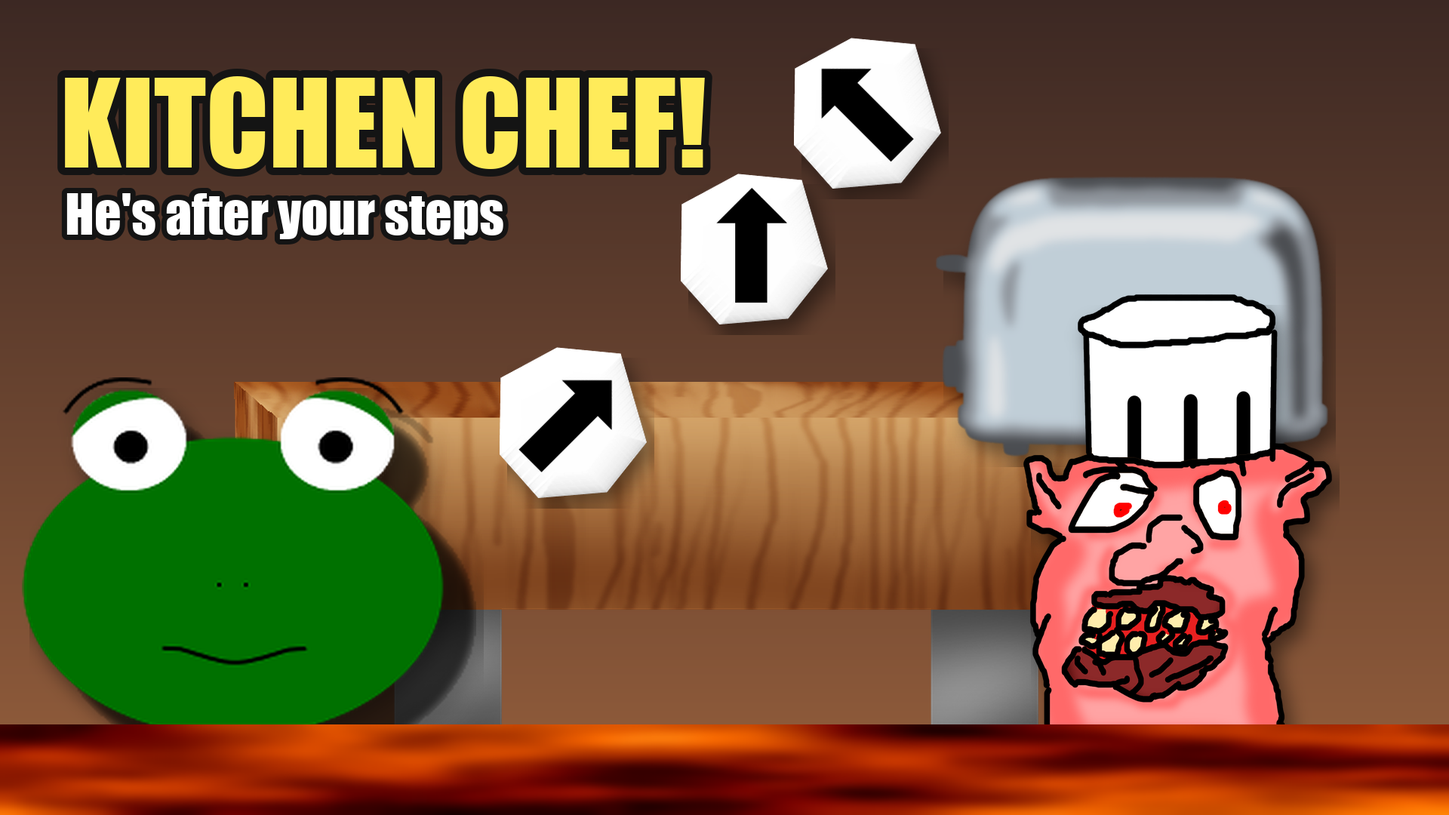
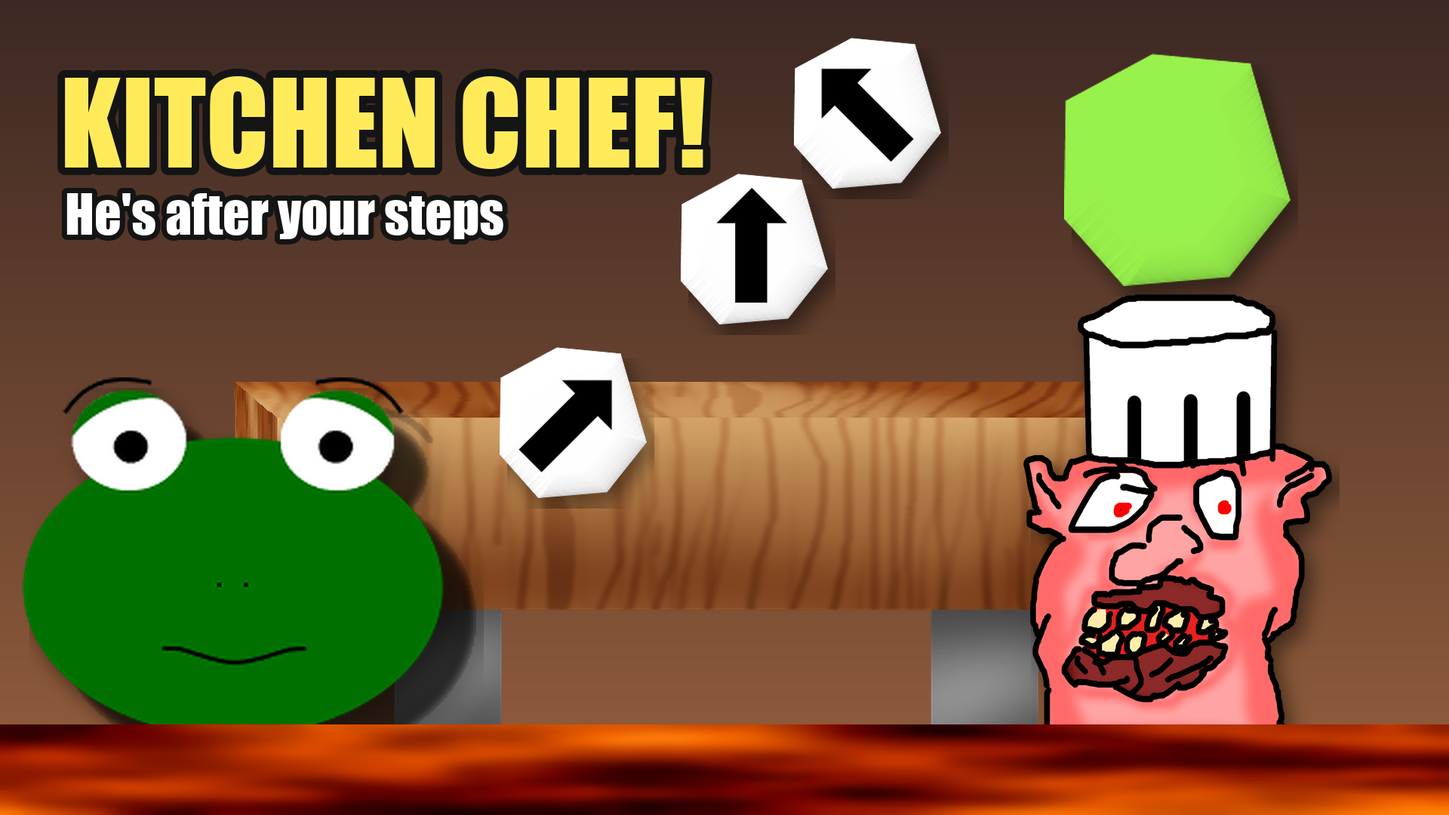
feat(levels): Kitchen's springboard is a SpringRock, not a toaster [b-20261022-122133-om8p]
cause: Kitchen mapped its Launch role to the Toaster kind; it now uses the
default lime SpringRock at the same weights. Docs 17/18 and marketing
thumb 2 updated to match.
verified: no (Hot Frog place not open in Studio); Play check filed.

Claude-Session: https://claude.ai/code/session_01Pi9fBDqQNHc5N76CbTuQqC

Changed region(s): [[0.625, 0.0611, 0.9375, 0.5806]]

diff --git a/tools/make_marketing.py b/tools/make_marketing.py
@@ -100,6 +100,12 @@ def steps(canvas, spots, size=200):
         paste(canvas, sprite(f"Rocks/{arrows[i % 5]}.png", height=size), x, y)
 
 
+def lime(img):
+    """SpringRock's lime tint (StepKinds TINT_LIME) on a WhiteRock sprite."""
+    r, g, b, a = img.split()
+    return Image.merge("RGBA", (r.point(lambda v: v * 0.6), g.point(lambda v: v * 0.95), b.point(lambda v: v * 0.3), a))
+
+
 def make_icon():
     img = Image.open(os.path.join(ROOT, "Sprites/Other/Icon.png")).convert("RGB")
     img.resize((512, 512), Image.LANCZOS).save(os.path.join(OUT, "icon-512.png"))
@@ -120,7 +126,7 @@ def thumb2():
     c = vgrad((60, 40, 35), (150, 95, 60))
     sh = sprite("Other/Shelf.png", width=1300)
     paste(c, sh, 960, 760, shadow=False)
-    paste(c, sprite("Rocks/Toaster.png", width=520), 1500, 420)
+    paste(c, lime(sprite("Rocks/WhiteRock.png", width=300)), 1560, 225)
     paste(c, sprite("Other/Chef.png", height=620), 1560, 700)
     steps(c, [(1000, 330), (1150, 150), (760, 560)], 200)
     frog(c, 330, 760, 520)

diff --git a/docs/roblox-port/17-status-and-known-gaps.md b/docs/roblox-port/17-status-and-known-gaps.md
@@ -152,6 +152,7 @@ still guesses. The first bot run found one bug, fixed the same day: see the
 | Country music | `musicIndex 4` looked out of range | `music5` = `Two Wrongs.wav`, the fifth clip in `Multiplayer.unity`'s AudioManager override | |
 | Country outdoor area and Space (b-20261020-200915-5ju4, owner's ruling b-20261020-201705-zwi7) | Country is the last level, endless, with no background material; there is no Space level | **Country is the outdoor area:** it gets a painted sky backdrop (`background = "CountryBack"`, `Sprites/Other/CountryBack.png`) and three new kinds in its four rock pools (`Levels.withOutdoor`): `TreeTrunk` (a static climbable trunk, behaviour `None`), `OakTree` (the Tutorial's oak, `TutorialTreeMid.png` as a 12-stud static climbable trunk, behaviour `None`; **since removed from the pools, b-20261022-122127-bu3j, see the next row**; owner b-20261020-205449-vnng: "use the trees from tutorial too"; no new art) and two cars, `CarRight` / `CarLeft` (behaviour `Drive`: the car drives its row at the kind's own fixed speed, +2.5 / -3.5 studs/s, never rolled; while the lane travels vertically a car that drives wholly past the lane's side edge wraps round to the other edge, so its row keeps traffic; while it travels sideways it leaves past the bound like any step). A car's roof/body is grabbable, but a frog that holds it for `Config.CAR_KNOCK_TIME` (1.2 s) in a row is knocked off (a forced release, never a death), shaking for the last `CAR_WARN_TIME` (0.6 s); cars are `hazard` kinds (fairness guard) and absent from Country's first height stage, then weighted 0.15 / 0.2 / 0.25 each. **No shelves (b-20261020-213556-k25y, "remove shelves from the country level and add in more directional steps"; Unity Country used shelves):** `Shelf`/`ShelfWithSpoon`/`ShelfWithFork` are out of all Country pools; the arrow pools grew (DownLeft `UpRock`/`UpLeftRock`/`UpRightRock`, Right `UpRock`/`UpRightRock`/`RightRock`, Left `UpRock`/`UpLeftRock`/`LeftRock`, Down unchanged four) and every height stage weights each arrow 0.25 (default 0.1) and `TreeTrunk` 1.2 (was `TreeTrunk`/`OakTree` 0.6 each) so trees are the plain footholds; arrows are roughly a fifth to a third of a pick. **Country now ends:** at `LEVEL_THRESHOLDS.Space` (250) run steps `Lane.onStepClimbed` levels the lane up to **Space** (`Levels.SPACE`, 6th entry), the last level, endless. Space: star-field backdrop (`SpaceBack`), music3 (`Opening`, otherwise unused), night-tinted sun, travel starts straight up, Country's spawners with one `Asteroid` kind (weight 1.5 = the three shelves') in place of the shelves/trees/cars and rockets only in the themed spawner, no scenery, two calm height stages and SpringStreak. **Low gravity:** `Lane.gravityScale` eases the frog's fall speed linearly from 1 to `Config.SPACE_GRAVITY_SCALE` (0.2) over the first `SPACE_GRAVITY_TRANSITION_STEPS` (8) steps climbed after arriving, then stays there; a death resets the run to Pot at full gravity. The spec's "256-unit transition" is read as 256 Unity units ≈ 80 studs ≈ 8 ordinary pulls, counted in steps so it is the same in Normal and Classic. Classic drifts at Country's speed in Space. All five images are Ludo-generated (`ludo` CLI, "Illustration"/style-matched to the existing sprites), trimmed and padded by hand onto power-of-two canvases (backdrops made seamless by a half-offset crossfade) | owner's feature request; Unity has no outdoor content or Space. Speeds, knock time, weights and the gravity scale are guesses, not tuned by feel |
 | Country trees: only the simple trunk (b-20261022-122127-bu3j, "remove the more detailed tree sprites and keep the less detailed ones") | Port-added `OakTree` (the Tutorial oak tile as a Country foothold, row above) | `OakTree` is out of `Levels.withOutdoor` and every Country height stage; `TreeTrunk` (the plain trunk) keeps all tree spawns, its stage weight doubled 0.6 -> 1.2 and default probability 0.4 -> 0.8 so tree density is unchanged. The kind definition and `TutorialTreeMid` art stay (the Tutorial's own trees are untouched) | owner's request; port addition anyway, Unity has no Country trees |
+| Kitchen has no Toaster (b-20261022-om8p, "remove the toaster sprites") | port-added `Toaster` was Kitchen's Launch kind (row "Themed Launch / Vanish kinds" above) | `Levels.KITCHEN_ROLES` no longer overrides Launch, so Kitchen's springboard is the default lime `SpringRock` again at the Toaster's weights (0.2 in stages 3 and 4, and in SpringStreak). The `Toaster` kind definition and art stay, unspawned | owner's request; gameplay (a +8 stud pull step) unchanged, only its art differs |
 | Kitchen and Space music | `musicIndex 1`, FrogSounds.wav (the same quiet, beatless track as the menu and Tutorial) for Kitchen; Space does not exist | Kitchen: `musicIndex 5`, `music6` = `Sounds/Music/KitchenBounce.mp3`, a 49 s looping kitchen chiptune generated with the `ludo` CLI (originally 64 s; first 14.87 s cut at the owner's request, b-20261021-112652-q8b6; id 117737777986047; scanned via `REPO_MUSIC` in `tools/build_manifest.py`). Space: `musicIndex 3`, `music4` = `Adenine.mp3`, Kitchen's previous track (earlier pick b-20261010-192146-ml2d, "kitchen needs equally groovy music as pot") | owner: "use the current kitchen music for the space level and make new music for the kitchen" (b-20261021-094437-1mnh); not yet listened to in game. Space used `music3` (Opening) before; it is now unused by any level |
 | Badges | only checked on a new all-time best | awarded the first time any run crosses a threshold | friendlier to players who already have a high best |
 | Pause | freezes the game | **removed**: there is no pause button. The frog keeps sinking whatever you do, but while it holds a step it cannot die (it stops on the lava surface) | a multiplayer server can't pause, and the earlier status-only panel read as a broken pause; owner's ruling b-20261012-141202-0586 |
@@ -164,7 +165,7 @@ still guesses. The first bot run found one bug, fixed the same day: see the
 | Dynamic steps (port addition) | every shipped step is static until grabbed | five new kinds on four new behaviours: `Lillipad` (`Patrol`, slides side to side, frozen while held), `BobRock` (`RiseAndFall`), `SpringRock` (`Launch`, +`LAUNCH_PULL` 8 studs of pull), `BlinkRock` (`Vanish`: warns via `Unsteady` after 3 s in view, then drops away) and `CrumbleRock` (`Crumble`, 1.5 s after the grab). Kitchen and Country gain `heightStages` (`stagesFromEntry`: bounds count steps since the lane entered the level, `lane.levelStartSteps`, because the rim grab makes Kitchen start a few steps past 50; Pot's stay absolute) that introduce them gradually; Pot's last stage adds `Lillipad`. Spawners may lay a pattern (`Levels.patterns`: ZigZag, Staircase, Cluster, BugChain, PadLadder) in place of a single spawn (members staged upstream of the first are reach- and bounds-tested as if the steps before them had been climbed, up to `PATTERN_MAX_UPSTREAM`), and levels have rare events, rolled once per grab, (Kitchen/Country SpringStreak, Country CastleKeep using the pool-less `Castle` kind). Fairness guard in `Lane`: hazard kinds (`StepKinds.hazard`) are at most `HAZARD_MAX_RECENT` (2) of a lane's last `HAZARD_WINDOW` (6) spawns, pattern and scaffold members are never all hazards, a mover's whole sweep is reserved in `clearSpot` and kept inside the portrait view and reach. None of it appears in the Tutorial | owner's request to expand the basic playspace. Bot-tested in Studio (see Status); weights, chances and amplitudes are guesses |
 | Dead kinds revived: Ember, StillRock, SlowFallRock (b-20261021-091536-8ayk, doc 19 ruling 4, part 3 of 6) | `FlingingRock`, `StillRock`, `SlowFallRock` and `FlyRock` are Unity "General/Spawners" prefabs in no live pool; `FlingingRock` is a `WrappedRock` rock, `FlyRock` is untinted | `FlingingRock` is the **Pot Ember**: `CrumblyRock` art tinted orange, `SplashFlinging` with the `Flame` flingee, not a `hazard` (so Halloween may swap it for a Pumpkin), in all three Pot spawners, weight 0 / 0.3 / 0.4 over Pot's three height stages. `StillRock` (untinted `WrappedRock`) is a Country plain foothold, 0.4 in every stage, and `FlyRock` now wears a gold tint so the two read differently (affects BugChain in Kitchen too). `SlowFallRock` (`Fall`, `hazard`, pink-tinted `WhiteRock`) is a Country hazard in the two later stages only, 0.2 then 0.3 (0 in stages 1-2, like `BlinkRock`'s ramp). Both Country kinds are added through `Levels.withOutdoor`. Not yet spawned with `StudioSpawnKind` (Studio Play held); still dead: `CrumblyRock`, `FallingRock` (part 4), `Beetle` (needs art) | owner's ruling 4 on b-20261021-074242-z0a9 (all six kinds go in). Weights are doc 19's; tints are guesses |
 | Dead kinds revived: CrumblyRock, FallingRock (b-20261021-091536-2ymu, doc 19 ruling 4, part 4 of 6) | `CrumblyRock` (`None`, untinted) and `FallingRock` (`Falling`, salmon, `hazard`) are Unity prefabs in no live pool; `CrumblyRock` shared its art with the crumbling `CrumbleRock` | `CrumblyRock` is a Kitchen step with its own biscuit tint (since b-20261021-095009-vou1 a shake-then-burst hazard like `CrumbleRock`, see "Crumble step"; it was first revived as a plain `None` step) so it differs from the untinted `CrumbleRock`; weight 0.3 / 0.3 / 0.35 / 0.4 over Kitchen's four height stages. `FallingRock` is a Kitchen hazard, salmon tint kept, weight 0 / 0 / 0.2 / 0.3, and sinks at 24 studs/s via the new `speed` param on `StepBehaviors.Falling` (default `Config.FALLING_DRIFT_SPEED` 15, so only this kind changes). Both are in all five Kitchen spawner pools; neither is in Space, and Country's pools are unchanged. Not yet spawned with `StudioSpawnKind` (Studio Play held); `Beetle` is still dead (needs art) | owner's ruling 4 on b-20261021-074242-z0a9. Weights, the 24 studs/s speed and the biscuit tint are guesses |
-| Themed Launch / Vanish kinds and the Beetle (b-20261021-091537-rv4a, doc 19 rulings 1B and 4, part 5 of 6) | Unity's `Beetle.prefab` is a black-tinted `WhiteRock` rock in no live pool; the port's Launch and Vanish kinds (`SpringRock`, `BlinkRock`) were tinted rocks in every level | `Levels.KITCHEN_ROLES` maps Launch to `Toaster` and Vanish to `IceCube`; `Levels.COUNTRY_ROLES` maps Launch to `CashPile` (a pile of banknotes and coins; it replaced the Trampoline by owner request b-20261021-094516-9uqb, inheriting its role, weights and params) (Vanish stays `BlinkRock` until the Dandelion has art; Space keeps all five default roles; Lillipad stays Patrol everywhere). Each copies the behaviour, params and stage weights of the rock it replaces (Toaster `Launch` pull 8, Kitchen 0 / 0 / .2 / .2; IceCube `Vanish` 3 s + 1.5 s, `hazard`, Kitchen 0 / 0 / 0 / .3; CashPile (ex-Trampoline) `Launch` pull 8, Country .15 / .25 / .25 / .3), and SpringStreak lays the level's Launch kind. `Beetle` now uses its own `Beetle` art (a red ladybug, untinted) and is flagged `hazard`; it joins Country through `withOutdoor` at 0 / .1 / .15 / .15. Sizes (port additions, no Unity collider; hit box = the art's visible extent): Toaster on the 8.046 shelf canvas, hit 7.1 x 5.3 (body), tap 8 x 5.8; IceCube on the 3.657 small-rock canvas with BlinkRock's hit box and 6 x 6 tap; CashPile 8 x 4 canvas, hit 7.8 x 2, tap 8 x 3.6 (was the Trampoline's 7.8 x 1.8); Beetle on the 7.314 rock canvas, hit 6.9 x 3.7 (not Unity's r=11 circle), tap 7.3 x 5.5. The new kinds are untinted (the art carries the look), so they also get no Halloween tint. Not yet spawned with `StudioSpawnKind` (Studio Play held) | owner's ruling 1B / 4 on b-20261021-074242-z0a9; art from b-20261021-091519-wu4e. Weights are inherited or doc 19's; hit boxes, tap pads, the CashPile canvas and dropping the lime / violet / black tints are guesses |
+| Themed Launch / Vanish kinds and the Beetle (b-20261021-091537-rv4a, doc 19 rulings 1B and 4, part 5 of 6) | Unity's `Beetle.prefab` is a black-tinted `WhiteRock` rock in no live pool; the port's Launch and Vanish kinds (`SpringRock`, `BlinkRock`) were tinted rocks in every level | `Levels.KITCHEN_ROLES` maps Vanish to `IceCube` (Launch was `Toaster`; since removed, see "Kitchen has no Toaster"); `Levels.COUNTRY_ROLES` maps Launch to `CashPile` (a pile of banknotes and coins; it replaced the Trampoline by owner request b-20261021-094516-9uqb, inheriting its role, weights and params) (Vanish stays `BlinkRock` until the Dandelion has art; Space keeps all five default roles; Lillipad stays Patrol everywhere). Each copies the behaviour, params and stage weights of the rock it replaces (Toaster `Launch` pull 8, Kitchen 0 / 0 / .2 / .2; IceCube `Vanish` 3 s + 1.5 s, `hazard`, Kitchen 0 / 0 / 0 / .3; CashPile (ex-Trampoline) `Launch` pull 8, Country .15 / .25 / .25 / .3), and SpringStreak lays the level's Launch kind. `Beetle` now uses its own `Beetle` art (a red ladybug, untinted) and is flagged `hazard`; it joins Country through `withOutdoor` at 0 / .1 / .15 / .15. Sizes (port additions, no Unity collider; hit box = the art's visible extent): Toaster on the 8.046 shelf canvas, hit 7.1 x 5.3 (body), tap 8 x 5.8; IceCube on the 3.657 small-rock canvas with BlinkRock's hit box and 6 x 6 tap; CashPile 8 x 4 canvas, hit 7.8 x 2, tap 8 x 3.6 (was the Trampoline's 7.8 x 1.8); Beetle on the 7.314 rock canvas, hit 6.9 x 3.7 (not Unity's r=11 circle), tap 7.3 x 5.5. The new kinds are untinted (the art carries the look), so they also get no Halloween tint. Not yet spawned with `StudioSpawnKind` (Studio Play held) | owner's ruling 1B / 4 on b-20261021-074242-z0a9; art from b-20261021-091519-wu4e. Weights are inherited or doc 19's; hit boxes, tap pads, the CashPile canvas and dropping the lime / violet / black tints are guesses |
 | Space UFO and Satellite (b-20261021-091537-xh0w, doc 19 rulings 1B, 2A and 5B, part 6 of 6) | Space's Patrol and RiseAndFall movers were the pond Lillipad and the sky-tinted `BobRock` rock | `Levels.SPACE_ROLES` maps Bob to `UFO` (`RiseAndFall`, amplitude 1.5, period 2.5, as BobRock) at BobRock's Space weights (.3 / .45); `Satellite` (`Patrol`, amplitude 2.5, period 3.5, as Lillipad) joins Space through `withSpace` and splits the Patrol weight with Lillipad half and half (Lillipad .175 / .25, Satellite .175 / .25; was Lillipad .35 / .5). Lillipad stays Patrol everywhere (z0a9), so SpringStreak and PadLadder are unchanged. Space otherwise keeps its rock steps: no Meteor, BoostRocket or DriftAsteroid, and Rocket stays out of the Down pool. Sizes (port additions; both PNGs are 512x256 on an 8 x 4 canvas, 64 px/stud, alpha boxes measured with PIL): UFO visible x 6-507, y 47-209 px, hit 7.8 x 2.5, tap 8 x 3.6; Satellite visible x 6-506, y 79-178 px, hit 7.8 x 1.5, tap 8 x 3.4. Both are untinted, non-hazard moving kinds, so the Halloween swap skips them (`Config.HALLOWEEN_KEEP_BEHAVIORS` holds Patrol and RiseAndFall). No new Tips (no new behaviour). Not yet spawned with `StudioSpawnKind` (Studio Play held by the owner) | owner's rulings 1B / 2A / 5B on b-20261021-074242-z0a9; art from b-20261021-091519-wu4e. Weights are inherited; hit boxes and tap pads are guesses |
 | Bug flight (`Entities/Bug.cs`) | a DOTween move to a random point (3 s OutBack), then the bug sits still for its lifespan and leaves | one server Heartbeat integrator, replicated at `BUG_UPDATE_HZ` (30) through `BulkMoveTo`. After the Back-out entry a bug flies a weighted `Pattern` until it leaves: Hover, FigureEight, Dart, or Skittish (drifts away from the lane frog's limbs), always clamped to the lane's bug box. Edge spawns are occasionally a swarm of 3–5, and a rare `Golden` bug (gold tint, fast Dart, shorter life) pays `GOLDEN_BUG_FLYS` (25) through `AwardFlys` and counts as one catch. Per-lane and pool caps. `WorldBugs.client.luau` flutters the wings (`Wing1/2/3`) and pulses golden bugs, client-side | bugs that freeze after 0.8 s made the field feel static; owner's request. Gift-burst bugs (`Reward = false`) are never golden. Bot-tested in Studio (see Status) |
 | World dynamics (cosmetic) | scenery is static or drifts; no wind, depth layers, lava surge or tap reactions beyond the Bubble | client-only: per-kind sway/bob/roll/spin/flicker (`SceneryKinds.motion`); extra spawners per level (`SceneryKinds.extraSpawners`: far/near clouds in Menu and Country, leaves in Country, back-flames in Pot, from previously unused art); Country wind gusts (`world/Wind`); a Pot lava swell with ember bursts scaled by `PotHeat` (a separate strip, at most `SURGE_MAX_RISE` 1.1 studs above `LAVA_Y`; the death line and the real Lava part are untouched); tap reactions `pop` / `wobble` / `flare`. Scenery and the backdrop now share one eased pull driver (`world/PullScroller`) instead of a tween per part per pull, which also fixes recycled scenery teleporting when a stale tween kept writing its position, and the backdrop stepping while scenery eased. The lane folder also publishes `PullTotal` (cumulative), `PullLinear` (true for Classic drift chunks, which the scroller plays linearly instead of easing them into 2 Hz surges) and `PullEpoch` (bumped by `Lane.resetRun`), so two pulls published in one server frame no longer collapse into one on the client; `PullDelta` / `PullTime` / `PullCount` are unchanged | owner's request; every knob is in `WorldConfig`. Bot-tested in Studio (see Status) |

diff --git a/docs/roblox-port/18-step-kinds-by-level.md b/docs/roblox-port/18-step-kinds-by-level.md
@@ -8,7 +8,7 @@ The tables below are the audit as read at `6645c92`. Changes made since by the d
 
 - **Role map** (`b-20261021-091520-sh6c`): `withDynamic` is now `withRoles(level roles, pool)`; each level's `roles` names its Patrol / Bob / Launch / Vanish / Crumble kind, and PadLadder / SpringStreak members name a role, not a kind. The Halloween swap skips Patrol, RiseAndFall and Launch kinds.
 - **Revived kinds**: Pot gains `FlingingRock` (the Ember, 0 / .3 / .4); Country gains `StillRock` (.4 every stage) and `SlowFallRock` (0 / 0 / .2 / .3) via `withOutdoor`; Kitchen gains `CrumblyRock` (.3 / .3 / .35 / .4) and `FallingRock` (0 / 0 / .2 / .3) in all five pools. FlyRock is gold-tinted.
-- **Themed kinds** (`b-20261021-091537-rv4a`): Kitchen's Launch role is `Toaster` and its Vanish role `IceCube`, at SpringRock's and BlinkRock's old Kitchen weights (Toaster 0 / 0 / .2 / .2, IceCube 0 / 0 / 0 / .3); the Kitchen SpringStreak lays Toasters. Country's Launch role is `CashPile` (replaced the Trampoline, owner request `b-20261021-094516-9uqb`) at SpringRock's old weights (.15 / .25 / .25 / .3; SpringStreak lays CashPiles), and `Beetle` (new ladybug art, `hazard`, one forced release) joins `withOutdoor` at 0 / .1 / .15 / .15. Lillipad and BobRock stay in every level; BlinkRock stays Country's Vanish kind and Space keeps all five default roles. Read "Spring" and "Blink" in the Kitchen table, and "Spring" in the Country table, as these kinds.
+- **Themed kinds** (`b-20261021-091537-rv4a`): Kitchen's Vanish role is `IceCube` at BlinkRock's old Kitchen weights (0 / 0 / 0 / .3); its Launch role is the default `SpringRock` again (0 / 0 / .2 / .2; the Toaster was removed, `b-20261022-om8p`), and the Kitchen SpringStreak lays SpringRocks. Country's Launch role is `CashPile` (replaced the Trampoline, owner request `b-20261021-094516-9uqb`) at SpringRock's old weights (.15 / .25 / .25 / .3; SpringStreak lays CashPiles), and `Beetle` (new ladybug art, `hazard`, one forced release) joins `withOutdoor` at 0 / .1 / .15 / .15. Lillipad and BobRock stay in every level; BlinkRock stays Country's Vanish kind and Space keeps all five default roles. Read "Spring" and "Blink" in the Kitchen table, and "Spring" in the Country table, as these kinds.
 - **Space movers** (`b-20261021-091537-xh0w`): Space's Bob role is `UFO` (BobRock's `RiseAndFall` params and weights, .3 / .45) and `Satellite` (`Patrol`) joins beside Lillipad, splitting the Patrol weight (Lillipad .175 / .25, Satellite .175 / .25). Space keeps its rock steps (no Meteor, BoostRocket or DriftAsteroid; Rocket stays out of the Down pool). Read "Bob" in the Space rows as UFO; Lily's Space share is now halved.
 - Still dead: none of the six; still in no pool by design: PotRim, Castle, Pumpkin, FlyRock.
 
@@ -17,10 +17,10 @@ The tables below are the audit as read at `6645c92`. Changes made since by the d
 - Each level has step spawners with a `pool` (list of StepKinds names). `Lane.pickKind` does one weighted draw over the pool of the spawner active for the lane's current scroll direction (by sign): Down, DownLeft, DownRight, Left, Right, plus a themed Rocket spawner that scrolls left.
 - Weight = the current height stage's `weights[kind]` if listed, else `StepKinds[kind].spawnProbability`. Shares below are weight / pool total, before gating.
 - Gates: an arrow whose `canSpawn` says the bias already points that way is skipped (`UpRock` never on a straight-down scroll; `LeftRock`/`RightRock` only when not already horizontal). Kinds flagged `hazard` (Crumble, Blink, cars) are capped at 2 of the last 6 spawns.
-- `withDynamic` adds Lillipad, BobRock, SpringRock, BlinkRock, CrumbleRock to a pool (weight comes from the stage). `withOutdoor` = withDynamic + TreeTrunk, OakTree, CarRight, CarLeft.
+- `withDynamic` adds Lillipad, BobRock, SpringRock, BlinkRock, CrumbleRock to a pool (weight comes from the stage). `withOutdoor` = withDynamic + TreeTrunk, CarRight, CarLeft.
 - Patterns (`patternChance` per stage) replace one spawn with a formation. Members with no `kind` are plain picks (no arrows, no hazards). Named members: FlyRock (BugChain), Lillipad (PadLadder), SpringRock (SpringStreak), Castle (CastleKeep).
 - Thresholds: Kitchen 50, Country 100, Space 250 run steps. Stage counts are steps since level entry (Kitchen, Country, Space) or whole-run (Pot).
-- StepKinds default weights: arrows 0.1; Shelf kinds, Potato, Carrot 0.5; Rocket, Balloon 1.0; Asteroid 1.5; TreeTrunk, OakTree 0.4; cars 0.2; Lillipad 0.15, BobRock 0.15, SpringRock/BlinkRock/CrumbleRock 0.1.
+- StepKinds default weights: arrows 0.1; Shelf kinds, Potato, Carrot 0.5; Rocket, Balloon 1.0; Asteroid 1.5; TreeTrunk 0.8; cars 0.2; Lillipad 0.15, BobRock 0.15, SpringRock/BlinkRock/CrumbleRock 0.1.
 
 ## 1. Per level
 
@@ -53,7 +53,7 @@ Down pool shares (shelves = the three shelf kinds together, a third each; arrows
 Stage weights Lily/Bob/Spring/Blink/Crumble: 1: 0/0/0/0/0; 2: .35/.3/0/0/0; 3: .35/.3/.2/0/.3; 4: .4/.35/.2/.3/.35. Sideways pools have one arrow, so at stage 4 shelves are ~46% and dynamics ~48%.
 
 ### Country (18 kinds incl. Castle and FlyRock; 4 stages since entry: 0-10 / 10-30 / 30-60 / 60+)
-Pools: Down `UpLeftRock, UpRightRock, LeftRock, RightRock`+outdoor; DownLeft `UpRock, UpLeftRock, UpRightRock`+outdoor; Right `UpRock, UpRightRock, RightRock`+outdoor; Left `UpRock, UpLeftRock, LeftRock`+outdoor. Themed `Level4RightStepSpawner` (scrolls left, no patterns): `Rocket`, `Balloon`, 50/50. Shelves were removed (b-20261020-213556-k25y). Every stage weights the 5 arrows 0.25 and TreeTrunk/OakTree 0.6. Events: CastleKeep (4%, from step 5, cooldown 20; Castle is in no pool), SpringStreak (3%, from step 25).
+Pools: Down `UpLeftRock, UpRightRock, LeftRock, RightRock`+outdoor; DownLeft `UpRock, UpLeftRock, UpRightRock`+outdoor; Right `UpRock, UpRightRock, RightRock`+outdoor; Left `UpRock, UpLeftRock, LeftRock`+outdoor. Themed `Level4RightStepSpawner` (scrolls left, no patterns): `Rocket`, `Balloon`, 50/50. Shelves were removed (b-20261020-213556-k25y). Every stage weights the 5 arrows 0.25 and TreeTrunk 1.2. Events: CastleKeep (4%, from step 5, cooldown 20; Castle is in no pool), SpringStreak (3%, from step 25).
 
 | Stage | Lily | Bob | Spring | Blink | Crumble | CarR / CarL | Patterns (chance) |
 |---|---|---|---|---|---|---|---|
@@ -91,7 +91,7 @@ Menu: BackGrass, Cloud3, Grass. Tutorial: Stars. Pot: Flame, Bubble (client extr
 | Lillipad | Pot (stage 3), Kitchen, Country, Space, PadLadder | pond art in a pot, kitchen, sky and space |
 | BobRock | Kitchen, Country, Space | tinted WhiteRock (sky) |
 | SpringRock | Space (Launch role) | lime WhiteRock (since `b-20261021-091537-rv4a`; was Kitchen and Country too) |
-| Toaster | Kitchen (Launch role) | own art, untinted (since `b-20261021-091537-rv4a`) |
+| Toaster | none (no longer spawned, `b-20261022-om8p`) | own art, untinted; kind kept, unused |
 | CashPile | Country (Launch role) | own art, untinted (replaced the Trampoline, `b-20261021-094516-9uqb`) |
 | BlinkRock | Country, Space (Vanish role) | violet SmallRock; hazard (Kitchen until `b-20261021-091537-rv4a`) |
 | IceCube | Kitchen (Vanish role, stage 4) | own art, untinted; hazard (since `b-20261021-091537-rv4a`) |
@@ -99,7 +99,7 @@ Menu: BackGrass, Cloud3, Grass. Tutorial: Stars. Pot: Flame, Bubble (client extr
 | CrumblyRock | Kitchen, Country (weights unchanged) | the same pebble-cluster art tinted biscuit; now a hazard that shakes then bursts like CrumbleRock and the Potato (`b-20261021-095009-vou1`; was a plain step, and so could be swapped for a Halloween Pumpkin). The Pot's Ember (FlingingRock) shares the art but stays a harmless flame-flinger |
 | Rocket | Country, Space | fits both |
 | Balloon | Country | fits |
-| TreeTrunk, OakTree | Country | fits |
+| TreeTrunk | Country (OakTree no longer spawned, `b-20261022-122127-bu3j`) | fits |
 | CarRight, CarLeft | Country | fits; hazards, weight 0 in stage 1 |
 | Asteroid | Space | the only Space-themed foothold |
 | Castle | Country event (CastleKeep) | salmon-tinted castle, in no pool |

diff --git a/.bugs/done.md b/.bugs/done.md
@@ -3218,3 +3218,14 @@ test: selene src/ clean; tools/luau_check.sh Levels.luau clean; rojo build ok; s
 verified: no — the Hot Frog place is not open in Studio (tools/studio_ready.sh: no Roblox Studio window titled Hot Frog); static checks only
 review: looks-right; checked: the three diffs, grep of src for tree/oak/pine (TreeTrunk, OakTree, the Tutorial oak in WorldTutorialTrunk.client.luau; no tree scenery), both PNGs compared, Lane.pickWeighted normalises weights, no remaining OakTree spawn reference; the stale older doc 17 row it flagged was then corrected (doc only)
 leftover: Studio Play check, b-20261022-123327-vq6p (waits on the open-Studio step o-20261022-122336-c92z)
+
+## b-20261022-122133-om8p  fixed  2026-10-22 12:36
+note: remove the toaster sprites
+cause: Kitchen's Launch role was mapped to the Toaster kind (KITCHEN_ROLES.Launch), so the toaster spawned as the springboard step and in the SpringStreak pattern; doc 18 and the marketing thumbnail still showed it.
+change: Removed the Kitchen Launch override so Launch falls back to the default lime SpringRock, and renamed the Kitchen stage weight keys Toaster -> SpringRock at the same values (0/0/0.2/0.2), so density and SpringStreak are unchanged. The Toaster kind stays defined, unspawned. Docs 17 and 18 are updated (doc 18's stale OakTree mentions too, after 0028314). tools/make_marketing.py draws a lime WhiteRock instead of the Toaster, and marketing/thumb-2.png is regenerated. Judgment call: Kitchen keeps a springboard (as SpringRock) instead of losing it.
+files: src/shared/Levels.luau, src/shared/StepKinds.luau, docs/roblox-port/17-status-and-known-gaps.md, docs/roblox-port/18-step-kinds-by-level.md, tools/make_marketing.py, marketing/thumb-2.png
+test: selene src/ clean; tools/luau_check.sh on Levels.luau and StepKinds.luau clean; rojo build ok; stylua --check clean (LF-normalised); python tools/make_marketing.py ran (only thumb-2.png changed)
+verified: no — the Hot Frog place is not open in Studio (tools/studio_ready.sh fails); static checks, and marketing/thumb-2.png inspected by the fixer and the reviewer
+review: looks-right; checked: diffs of Levels/StepKinds/doc 17, grep -i toaster of src (only comments, the kept kind and the generated SkinAssets id), KITCHEN_ROLES cloned from DYNAMIC_ROLES (Launch = SpringRock), withRoles puts SpringRock in every Kitchen pool so the renamed weight keys apply, SpringStreak resolves Launch via level.roles (Lane.luau:1503); flagged stale doc 18 and make_marketing.py:123
+re-review: looks-right; checked: make_marketing.py and doc 18 diffs, thumb-2.png against the HEAD copy (rock clear of the chef, arrows and title; no gap), lime() tint 0.6/0.95/0.3 matches StepKinds TINT_LIME, doc 18 against Levels.luau (no Toaster or OakTree in pools, TreeTrunk 1.2)
+leftover: Studio Play check, b-20261022-123600-6tse (waits on the open-Studio step o-20261022-122336-c92z)
